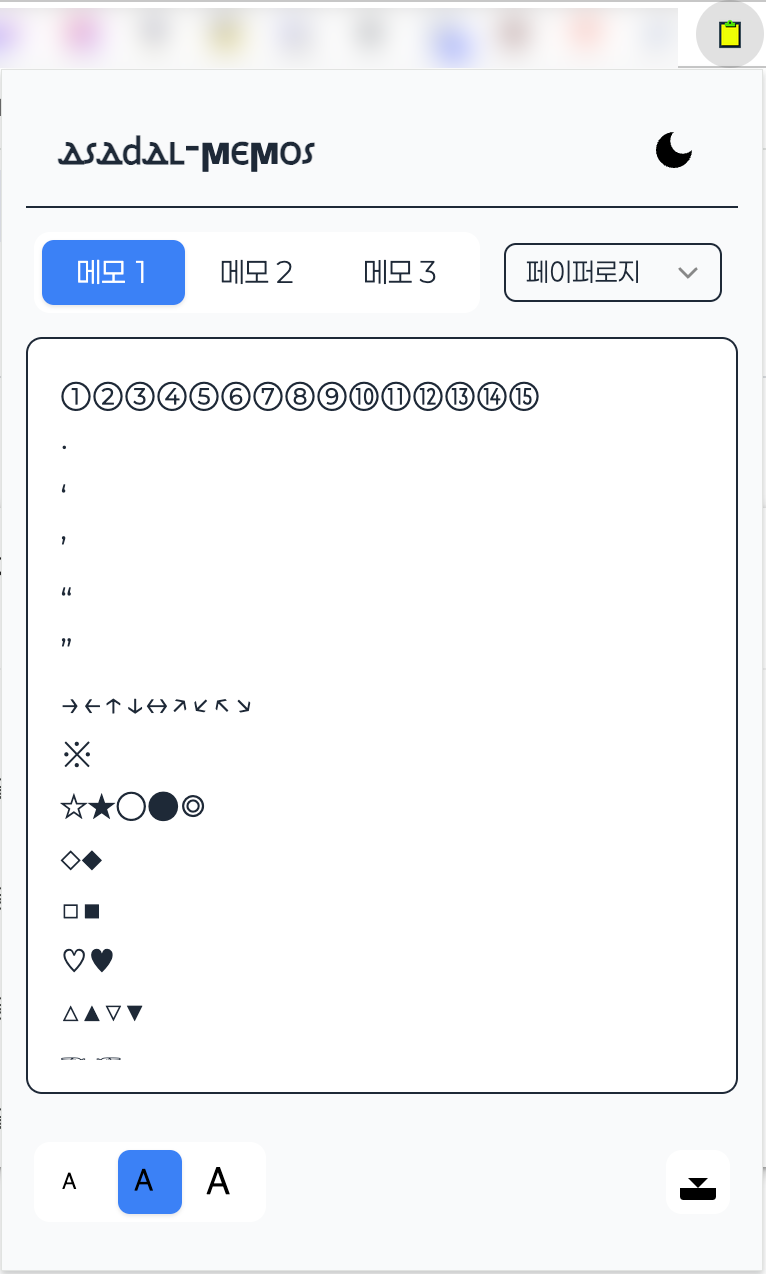
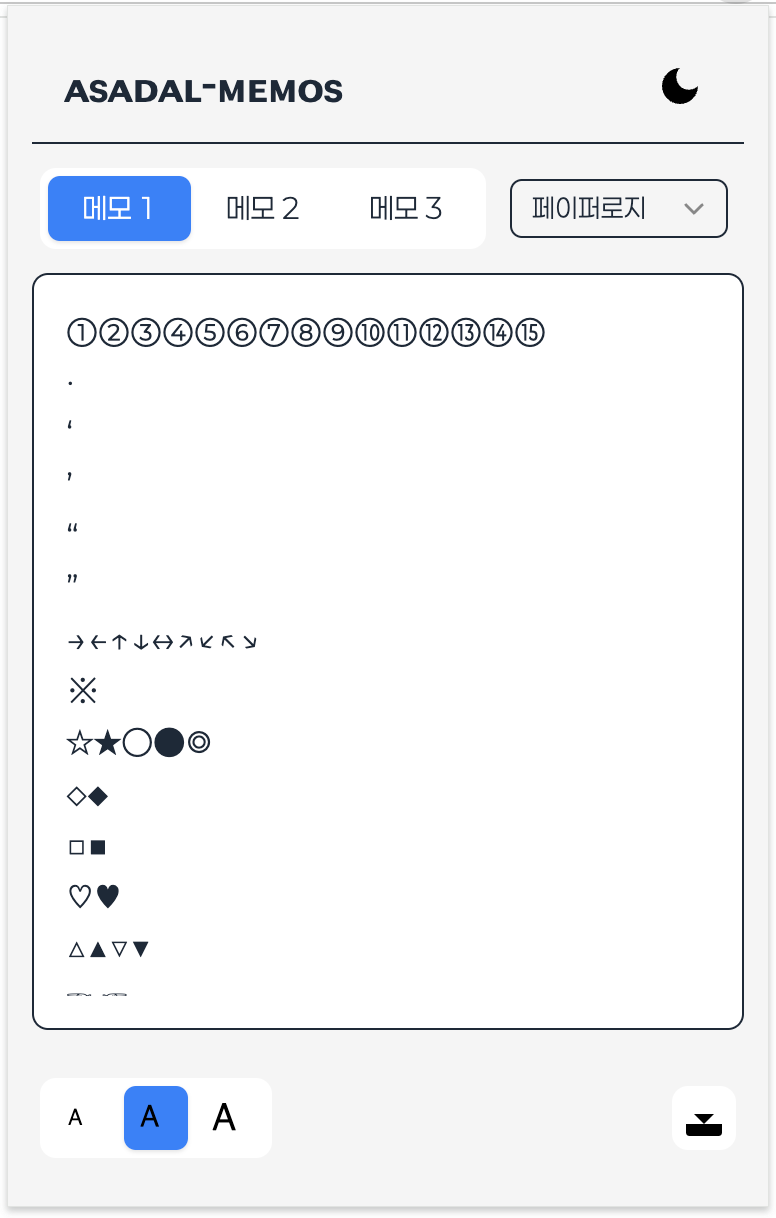
change title font

diff --git a/css/style.css b/css/style.css
@@ -1,7 +1,7 @@
 :root {
     --font-title: "Paperlogy-6SemiBold", sans-serif;
     --font-body: "Paperlogy-3Light", sans-serif;
-    --bg-color-light: #f9fafb; /* 옅은 회색 배경 */
+    --bg-color-light: #f5f5f5; /* 옅은 회색 배경 */
     --content-bg-light: #ffffff; /* 메모 입력칸 배경 */
     --text-color-light: #1f2937;
     --border-color-light: #e5e7eb;
